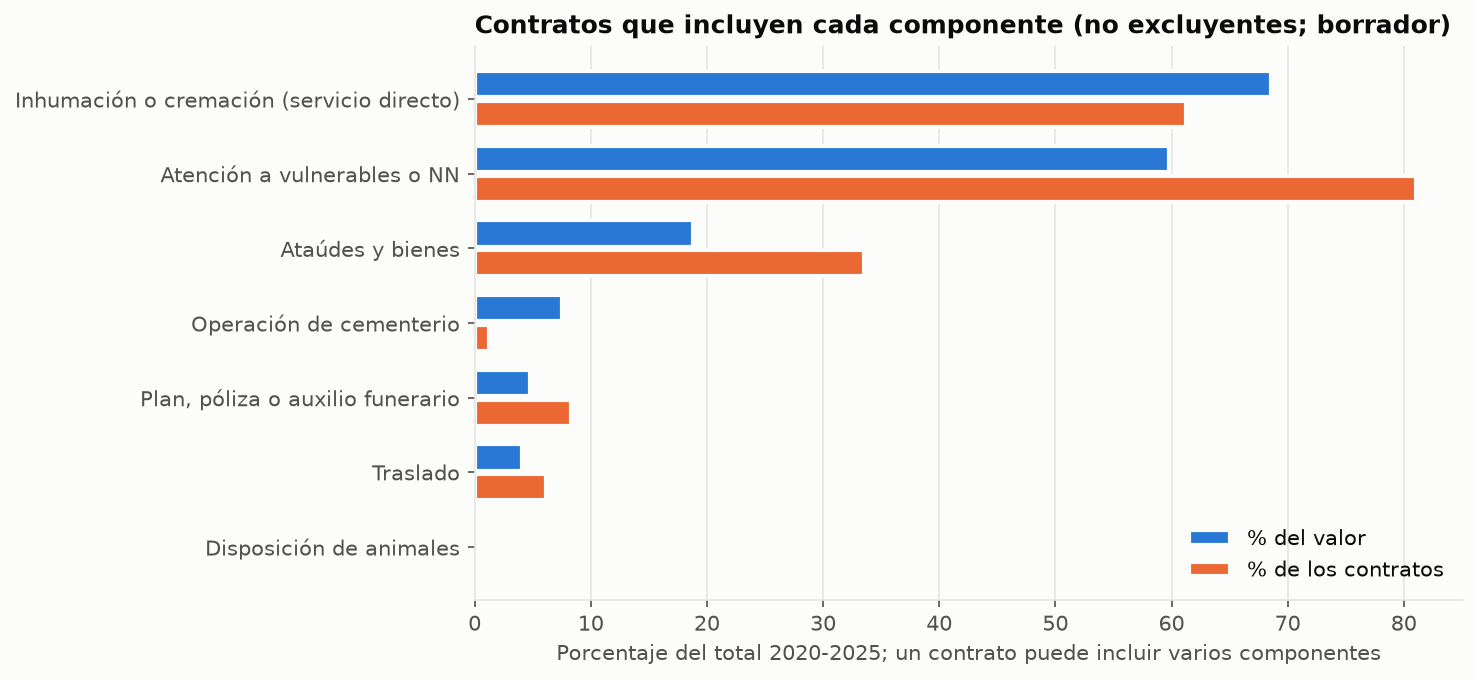
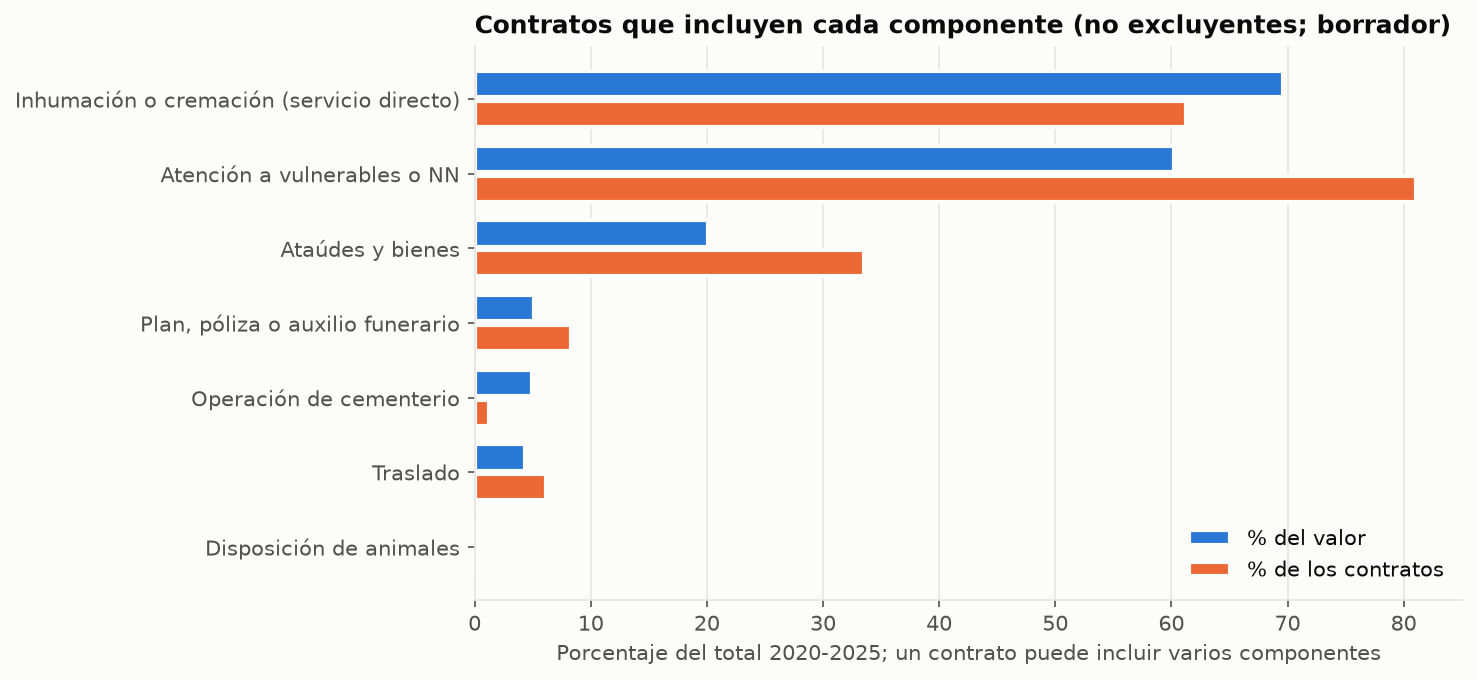
feat(modelos): etiquetas humanas de los dos contratos dudosos de 2025 y recálculo del mercado (D81)
El contrato de albergue y ayuda humanitaria de la Secretaría General de Bogotá es
mixto y la interventoría de la concesión de cementerios de la UAESP es
no_funerario (etiquetas de Edward con su origen). Mercado funerario con TF-IDF:
4.990 contratos y 246,2 miles de millones de pesos de 2025 (antes 262,9); 2025
queda en 38,7 (antes 55,4). HHI y CR4 de 2025: 638 y 33,0 % (antes 769 y 50,1 %);
el salto lo explica un único proveedor (23,9 % del valor del año). Se actualizan
las cifras de D67, D69, D77 y D78.

diff --git a/src/modelos/mercado_base.py b/src/modelos/mercado_base.py
@@ -78,10 +78,28 @@ def codigo_departamento(divipola):
     return {normalizar(n): c for n, c in divipola[["Nombre Departamento", "Código Departamento"]].drop_duplicates().itertuples(index=False)}
 
 
+def aplicar_etiquetas_humanas(clasif, procesado):
+    """Sustituye la clase del modelo por la etiqueta humana adicional (con su origen) y conserva la predicción original."""
+    archivo = procesado / "etiquetas_humanas_adicionales.csv"
+    clasif = clasif.assign(pred_tfidf_modelo=clasif["pred_tfidf"], pred_e5_modelo=clasif["pred_e5"],
+                           etiqueta_humana_adicional=None, origen_etiqueta_adicional=None)
+    if not archivo.exists():
+        return clasif
+    h = pd.read_csv(archivo, dtype=str)
+    indice = clasif.set_index(["fuente", "llave"]).index
+    for r in h.itertuples():
+        pos = np.flatnonzero((clasif["fuente"] == r.fuente) & (clasif["llave"] == r.llave))
+        assert len(pos) == 1, f"etiqueta humana adicional sin contrato único: {r.llave}"
+        i = clasif.index[pos[0]]
+        clasif.loc[i, ["pred_tfidf", "pred_e5", "etiqueta_humana_adicional", "origen_etiqueta_adicional"]] = [r.etiqueta, r.etiqueta, r.etiqueta, r.origen]
+    return clasif
+
+
 def construir_universo(config, columna_clase="pred_tfidf"):
     procesado = ruta(config, "processed")
     divipola = pd.read_csv(ruta(config, "raw") / "dane" / "dane_divipola.csv", dtype=str)
     clasif = pd.read_parquet(procesado / "clasificacion_universo.parquet")
+    clasif = aplicar_etiquetas_humanas(clasif, procesado)
     clasif["clase_final"] = clasif[columna_clase]
     atributos = universo_atributos(config)
     cruce = cruzar_ubicacion(atributos, divipola)

diff --git a/docs/decisiones.md b/docs/decisiones.md
@@ -527,6 +527,8 @@ Las decisiones no se borran: si cambian, se marca la anterior como reemplazada y
 
 - **Actualización con SECOP I 2023–2025 (D73, D74; 2026-10-26):** TF-IDF, `funerario`: **4.992 contratos y 262,9 miles de millones de pesos de 2025** (220,2 corrientes), frente a los 3.732 contratos y 230,1 miles de millones (189,6 corrientes) de la serie incompleta: +32,8 miles de millones (+14 %). Serie en pesos de 2025: 2020, 1.066 contratos y 48,6; 2021, 973 y 54,2; 2022, 805 y 36,5; 2023, 765 y 34,3; 2024, 691 y 34,0; 2025, 692 y 55,4. Por fuente (contratos; miles de millones): SECOP I 982, 816, 598, 525, 396 y 339 contratos y 27,0, 20,1, 15,3, 13,2, 10,0 y 9,6; SECOP II 84, 157, 207, 240, 295 y 353 contratos y 21,6, 34,1, 21,1, 21,0, 24,0 y 45,8. **La caída de 2023 no se mantiene:** de 2022 a 2023 el valor baja 6 % (36,5 a 34,3) y no 42 % (36,5 a 21,0) como en la serie sin SECOP I; 2024 queda igual (34,0) y 2025 sube a 55,4 (+63 %), sobre todo por SECOP II (45,8). SECOP I de 2023–2025 aporta 1.260 contratos funerarios (525, 396 y 339) y 32,8 miles de millones. Sensibilidades 2020–2025 (valor constante): TF-IDF con `mixto` 5.096 contratos y 413,8; e5 4.920 y 235,6; e5 con `mixto` 5.056 y 399,6.
 
+- **Actualización D81 (2026-10-26):** con las dos etiquetas humanas de D81 (el contrato de albergue y ayuda humanitaria de la Secretaría General de Bogotá como `mixto` y la interventoría de la concesión de cementerios de la UAESP como `no_funerario`), el mercado funerario con TF-IDF queda en **4.990 contratos y 246,2 miles de millones de pesos de 2025** (203,6 corrientes), frente a los 4.992 y 262,9 de la actualización anterior. Serie en pesos de 2025: 2020, 1.066 contratos y 48,6; 2021, 973 y 54,2; 2022, 805 y 36,5; 2023, 765 y 34,3; 2024, 691 y 34,0; **2025, 690 y 38,7** (antes 692 y 55,4). Sensibilidades 2020–2025: TF-IDF con `mixto` 5.095 contratos y 406,1; e5 4.920 y 235,6; e5 con `mixto` 5.057 y 408,6.
+
 ### D68. Patrones de compra: agrupaciones y reglas (borrador)
 - **Decisión:** como borrador sin conclusiones, los contratos `funerario` del escenario principal se describen por (a) tipo de entidad, con reglas sobre el nombre de la entidad (salud/hospital/ESE, alcaldía o municipio, gobernación o departamento, empresa de servicios públicos, educación, seguridad y justicia, otra), además del orden de cada fuente y el sector de SECOP II; (b) modalidad agrupada (contratación directa, régimen especial, mínima cuantía, selección abreviada o subasta, licitación o concurso), con la participación de la contratación directa en el valor por año y fuente; (c) mes de firma; y (d) subtipo de servicio con reglas sobre el objeto, en este orden de prioridad: disposición de animales, cremación, plan o póliza exequial, traslado de cadáveres, cofres y bienes, inhumación de NN o población vulnerable, operación de cementerio y otro. Se dejan 40 contratos con su subtipo en `docs/revision_f4/subtipos.xlsx` (5 por subtipo, semilla 2026, con lista desplegable) para que Edward los valide.
 - **Por qué (cifras del borrador):** tipo de entidad: alcaldías y municipios 85,3 % de los contratos y 54,4 % del valor. Modalidad: mínima cuantía 76,1 % de los contratos y 32,8 % del valor; contratación directa 13,3 % y 12,2 %; selección abreviada 5,9 % y 29,5 %; licitación o concurso 0,2 % y 16,2 %. Participación de la contratación directa en el valor: entre 3,8 % y 25,1 % según año y fuente, de 7,0 % en SECOP II 2025. Subtipo: inhumación de NN o vulnerables 60,0 % de los contratos y 43,6 % del valor; plan o póliza exequial 12,1 % y 5,6 %; cremación 4,1 % y 5,0 %; traslado 4,0 % y 1,9 %; cofres y bienes 3,5 % y 1,3 %; operación de cementerio 1,6 % y 9,5 %; disposición de animales 2 contratos; otro 14,8 % y 32,9 %. El orden de prioridad decide los casos que cumplen varias reglas (un contrato de cofres para población vulnerable queda en inhumación de vulnerables), y «vulnerable» incluye adultos mayores, víctimas y personas en vulnerabilidad.
@@ -552,6 +554,8 @@ Las decisiones no se borran: si cambian, se marca la anterior como reemplazada y
 - **Estado:** propuesta, lista para revisión de Edward (actualizada con la cobertura completa de SECOP I; ver la actualización al final de esta decisión). Limitación: en 2020–2022 un mismo proveedor puede figurar en las dos fuentes con identificadores distintos, lo que subestima la concentración de esos años.
 
 **Actualización con cobertura completa (2026-10-26, D73): lista para revisión de Edward.** HHI nacional por año con SECOP I y SECOP II: 290 (2020), 470, 294, 267 (2023), 379 (2024) y 769 (2025); CR4 de 28,4 %, 36,1 %, 25,3 %, 26,5 %, 31,3 % y 50,1 %; proveedores distintos 607, 534, 476, 471, 426 y 440. Con la serie incompleta el HHI de 2023 y 2024 parecía subir a 676 y 742: era en buena parte un efecto de cobertura, y con SECOP I completo se queda en 267 y 379; el aumento que persiste es el de 2025 (769, CR4 de 50,1 %), y coincide con el salto del valor de SECOP II ese año (45,8 miles de millones). Por departamento (32 con 5 o más proveedores, 2020–2025): percentiles 10, 25, 50, 75 y 90 de 489, 763, 1.251, 1.674 y 2.525; 4 superan 2.500. El 44,0 % de los contratos tiene un proveedor persona natural y los cinco proveedores de mayor valor reúnen el 21,9 % del valor. Sigue la limitación de que un mismo proveedor puede figurar en SECOP I y SECOP II con identificadores distintos, lo que subestima la concentración.
+
+**Actualización D81 (2026-10-26).** Con los dos contratos corregidos por Edward, el HHI y el CR4 de 2025 quedan en **638 y 33,0 %** (antes 769 y 50,1 %); el resto de la serie no cambia (290, 470, 294, 267, 379 en 2020–2024 y CR4 de 28,4 %, 36,1 %, 25,3 %, 26,5 % y 31,3 %). Por departamento (32 con 5 o más proveedores): percentiles 10, 25, 50, 75 y 90 de 489, 763, 1.302, 1.674 y 2.525; 4 superan 2.500. Los cinco proveedores de mayor valor reúnen el 22,3 % del valor. La concentración de 2025 que queda es real y de un solo proveedor: Coordinadora de Servicios de Parque Cementerio S.A.S., con 20 contratos y el 23,9 % del valor del año (el contrato de la Dirección de Bienestar de la Policía Nacional, 6,45 miles de millones, y los del Ejército), que aporta 573 de los 638 puntos del HHI. D69 sigue como propuesta, lista para revisión.
 
 ### D70. Cobertura de SECOP I después de 2022: conteo sin descarga
 - **Decisión:** no se descarga nada de SECOP I posterior a 2022 hasta que Edward lo apruebe. Se contó en `f789-7hwg`, con la misma consulta de D16 y los estados de D42 (Celebrado, Liquidado y Terminado sin Liquidar), la fecha de firma en 2023, 2024 y 2025. La advertencia de cobertura queda en el informe del mercado público y D69 sigue como propuesta.
@@ -614,12 +618,16 @@ Las decisiones no se borran: si cambian, se marca la anterior como reemplazada y
 - **Sustento:** `src/modelos/mercado_patrones.py` (`top_contratos`, `hhi_sin_mayores`); D21, D69, D73.
 - **Estado:** vigente como descomposición; D69, propuesta. Recomendación: etiquetar los contratos (1) y (2) para decidir su clase.
 
+**Actualización D81 (2026-10-26).** Las dos etiquetas humanas de D81 resuelven la duda de D77: el contrato (1) es `mixto` y el (2) es `no_funerario`, de modo que ya no cuentan como `funerario`. HHI de 2025: 638 (CR4 de 33,0 %), 172 sin el contrato de la Policía (CR4 de 19,7 %), 114 sin los dos mayores, 90 sin los tres mayores y 71 sin los diez mayores. La explicación de la subida de 2025 queda entonces en un solo proveedor (D81).
+
 ### D78. Componentes que se reportan y evaluación de la disposición de animales
 - **Decisión:** el informe reporta solo los componentes con 35 o más aciertos de 40 contra la revisión de Edward: operación de cementerio (40 de 40), plan exequial (39), traslado (36) y ataúdes y bienes (35). `incluye_inhumacion_cremacion` (27 de 40) e `incluye_atencion_vulnerables_NN` (23 de 40) pasan a «indicadores en revisión»: se reporta su acierto pero no los porcentajes de contratos y de valor. Resultado de los reportados (4.992 contratos `funerario`; porcentaje de contratos y de valor): operación de cementerio 1,2 % y 7,6 %; plan exequial 8,3 % y 4,8 %; traslado 6,1 % y 4,0 %; ataúdes y bienes 33,6 % y 18,8 %.
 - **Por qué:** los dos indicadores en revisión no se pueden evaluar con estos 40 casos, porque casi todo contrato funerario menciona un servicio directo y población vulnerable y la verdad de referencia tiene un solo subtipo por contrato. **Disposición de animales:** se evaluó con los 23 contratos del estrato B de la muestra de 400 (N = n = 23: es todo el estrato, de modo que no hay error de muestreo). Los 23 son `no_funerario` y `forense = 0`; 22 son gestión de residuos peligrosos u hospitalarios de centros de zoonosis (recolección, incineración y disposición final de residuos, o arrendamiento de bodegas para control de vectores) y solo uno, M078 (recolección de residuos que incluye «animales muertos cuyo peso supere los 50 kg»), trata animales muertos. El indicador `incluye_disposicion_animales` marca M078 y ninguno de los otros 22; con mi lectura de los 23 textos (Edward no etiquetó el componente, por lo que es provisional) eso es 1 de 1 positivo y 22 de 22 negativos correctos. En todo el universo la regla marca 6 contratos (1,06 miles de millones corrientes), todos `no_funerario`, y ningún contrato `funerario` la activa. Conclusión: la disposición pública de animales muertos no aparece como componente de los contratos funerarios y, entre los candidatos del filtro, es casi inexistente (1 de 23).
 - **Descartado:** reportar porcentajes de indicadores con menos de 35 aciertos; contar como positivos de animales los 22 contratos de residuos de zoonosis solo porque el filtro los marcó.
 - **Sustento:** `src/modelos/mercado_patrones.py`, `src/modelos/mercado_informe.py`; D17, D68.
 - **Estado:** vigente. Limitación: la lectura de los 23 contratos de animales es mía y no una etiqueta de Edward.
+
+**Actualización D81 (2026-10-26).** Con la interventoría de la concesión de cementerios fuera de la clase `funerario`, el componente de operación de cementerio baja a 1,2 % de los contratos y 4,9 % del valor (antes 7,6 %); plan exequial 8,3 % y 5,1 %; traslado 6,1 % y 4,3 %; ataúdes y bienes 33,6 % y 20,1 %.
 
 ### D79. Justificación estadística de las muestras de etiquetado
 - **Decisión:** la muestra de 400 (D22) y la validación externa de 60 (D62) son muestras **estratificadas con asignación no proporcional**, siguiendo la lógica de la asignación óptima de Neyman (Cochran, 1977): se sobremuestrean los estratos pequeños con alta variabilidad de la clase (los estratos con señal, donde conviven funerarios y no funerarios) y se submuestrea el estrato de mayor tamaño y casi sin positivos (D, sin señal). El **tamaño fue fijado por el presupuesto de etiquetado** (400 casos con doble revisión y 60 de validación), no por un cálculo previo de precisión. La estimación usa **pesos N/n** y el **estimador de Horvitz–Thompson** (la proporción de funerarios es Σ(w·y)/Σw) y los intervalos de las métricas se obtienen con **bootstrap estratificado** (remuestreo dentro de cada estrato, D55). Se reporta el efecto de diseño y el tamaño efectivo de Kish y el margen de error al 95 % por estrato (`data/processed/diseno_muestral_resumen.csv` y `diseno_muestral_estratos.csv`; código en `src/evaluacion/diseno_muestral.py`).
@@ -635,3 +643,10 @@ Las decisiones no se borran: si cambian, se marca la anterior como reemplazada y
 - **Descartado:** reabrir D59, D62 o D63; sustituir el resultado original por el revisado como si el primero no hubiera existido (se conservan las dos versiones).
 - **Sustento:** `src/modelos/evaluar_secop1_nuevos.py`, `src/modelos/reevaluar_validacion.py`, `data/processed/tabla_validacion_60_revisada.csv`; D62, D63, D74, D79.
 - **Estado:** vigente. Limitación: 30 casos de SECOP I 2023–2025 son pocos y el grupo negativo está dominado por contratos sin señal; el resultado sin errores acota el error de cada grupo en 18,1 % y no lo mide con precisión.
+
+### D81. Dos etiquetas humanas adicionales (contratos dudosos de 2025) y recálculo del mercado
+- **Decisión:** Edward etiquetó los dos contratos de 2025 que D77 señaló como dudosos: `CO1.PCCNTR.7493931` (Secretaría General de la Alcaldía Mayor de Bogotá, ayuda humanitaria con alojamiento en albergue y asistencia funeraria, 8,86 miles de millones) es **`mixto`**, y `CO1.PCCNTR.8750005` (UAESP, interventoría de la concesión de cementerios, 7,84 miles de millones) es **`no_funerario`** (Edward cita la regla 6 de D21). Se guardan como etiquetas humanas con su origen (`revision_edward_2026-10-26_hhi2025`) en `data/processed/etiquetas_humanas_adicionales.csv` (columnas fuente, llave, etiqueta, forense, origen y detalle; no se versiona), y `src/modelos/mercado_base.py` (`aplicar_etiquetas_humanas`) las aplica al construir el universo: sustituye `pred_tfidf` y `pred_e5` por la etiqueta humana y conserva la predicción original en `pred_tfidf_modelo` y `pred_e5_modelo`, con las columnas `etiqueta_humana_adicional` y `origen_etiqueta_adicional`. La clase final (`clase_final`) y todos los escenarios de sensibilidad usan la clase corregida; las 400 etiquetas de la muestra no sustituyen la predicción (D61). La corrección no se aplica a ningún otro contrato.
+- **Por qué (serie, HHI y CR4 recalculados con `python -m src.modelos.mercado`):** mercado funerario con TF-IDF, **4.990 contratos y 246,2 miles de millones de pesos de 2025** (203,6 corrientes), frente a los 4.992 y 262,9 anteriores (−16,7 miles de millones, los dos contratos). Serie en pesos de 2025 (miles de millones): 48,6 (2020), 54,2, 36,5, 34,3, 34,0 y **38,7 (2025, 690 contratos)**, en lugar de 55,4. En 2025, SECOP II aporta 351 contratos y 29,1 miles de millones, y SECOP I 339 y 9,6. **HHI y CR4 de 2025: 638 y 33,0 %** (antes 769 y 50,1 %); con e5 son 672 y 33,9 %, y con los contratos que ambos modelos llaman funerarios, 726 y 35,4 %; por tanto, con la clase corregida el salto de 2025 se explica por un único proveedor, Coordinadora de Servicios de Parque Cementerio S.A.S. (20 contratos, 23,9 % del valor del año, 573 de los 638 puntos del HHI), y no por una concentración general del mercado. Sin el mayor contrato de 2025 (Policía Nacional, 6,45 miles de millones, 16,5 % del año), el HHI es 172. Sensibilidades 2020–2025 (valor constante): TF-IDF con `mixto` 5.095 contratos y 406,1; e5 4.920 y 235,6; e5 con `mixto` 5.057 y 408,6.
+- **Descartado:** reentrenar los modelos con estas dos etiquetas (son contratos del universo, no de la muestra); aplicar la corrección solo al escenario de TF-IDF (e5 ya los clasificaba como `no_funerario` y ahora el primero pasa a `mixto` en ambos); borrar la predicción original del modelo.
+- **Sustento:** `src/modelos/mercado_base.py`; D61, D67, D69, D77, D78.
+- **Estado:** vigente. Limitación: las clases corregidas son dos de unos 5.000 contratos; otros contratos grandes pueden estar mal clasificados y no se han revisado (los diez mayores de 2025 se revisaron por modelo, no uno por uno).

diff --git a/docs/resultados/f4_mercado_publico.md b/docs/resultados/f4_mercado_publico.md
@@ -10,9 +10,9 @@ Tabla de origen: `tasa_cruce_ubicacion.csv`.
 
 | | contratos | funerarios (TF-IDF) |
 |---|---|---|
-| universo | 39,870 | 4,992 |
-| con municipio DIVIPOLA | 38,136 (95.7%) | 4,841 |
-| con departamento | 39,774 (99.8%) | 4,985 |
+| universo | 39,870 | 4,990 |
+| con municipio DIVIPOLA | 38,136 (95.7%) | 4,839 |
+| con departamento | 39,774 (99.8%) | 4,983 |
 
 Sin municipio quedan los contratos con la entidad registrada en «No Definido» y unos pocos nombres sin equivalente. Los cruces aproximados fueron revisados por Edward (20 de 20 correctos, D66). **Decisión D66** (vigente).
 
@@ -27,7 +27,7 @@ Tabla de origen: `serie_anual.csv`; gráfico `docs/resultados/graficos/1_serie_a
 | 2022 | 805 | 28,8 | 36,5 |
 | 2023 | 765 | 30,5 | 34,3 |
 | 2024 | 691 | 32,4 | 34,0 |
-| 2025 | 692 | 55,3 | 55,4 |
+| 2025 | 690 | 38,6 | 38,7 |
 
 Por fuente (`serie_anual_fuente.csv`):
 
@@ -44,16 +44,16 @@ Por fuente (`serie_anual_fuente.csv`):
 | 2024 | secop1 | 396 | 10,0 |
 | 2024 | secop2 | 295 | 24,0 |
 | 2025 | secop1 | 339 | 9,6 |
-| 2025 | secop2 | 353 | 45,8 |
+| 2025 | secop2 | 351 | 29,1 |
 
 Sensibilidad (suma 2020–2025; `serie_anual.csv`):
 
 | escenario | contratos | valor constante 2025 (mm) |
 |---|---|---|
-| e5_con_mixto | 5.056 | 399,6 |
+| e5_con_mixto | 5.057 | 408,6 |
 | e5_sin_mixto | 4.920 | 235,6 |
-| tfidf_con_mixto | 5.096 | 413,8 |
-| tfidf_sin_mixto | 4.992 | 262,9 |
+| tfidf_con_mixto | 5.095 | 406,1 |
+| tfidf_sin_mixto | 4.990 | 246,2 |
 
 **Decisión D67** (propuesta): pesos constantes de 2025 con el IPC mensual del mes de firma; valor inicial sin adiciones.
 
@@ -67,9 +67,9 @@ Tablas: `departamento_resumen.csv`, `departamento_anual.csv`, `municipio_resumen
 | VAUPÉS | 17 | 242,0 | 7,9 |
 | GUAVIARE | 36 | 202,5 | 7,1 |
 | VICHADA | 39 | 196,0 | 4,9 |
-| BOGOTÁ, D.C. | 153 | 186,9 | 0,3 |
 | AMAZONAS | 23 | 178,4 | 4,7 |
 | ARCHIPIÉLAGO DE SAN ANDRÉS, PROVIDENCIA Y SANTA CATALINA | 1 | 158,9 | 1,6 |
+| BOGOTÁ, D.C. | 151 | 151,8 | 0,3 |
 | ARAUCA | 47 | 118,9 | 2,8 |
 | SUCRE | 181 | 118,1 | 3,0 |
 | NARIÑO | 416 | 117,2 | 4,1 |
@@ -78,7 +78,7 @@ Diez municipios con más contratos funerarios:
 
 | municipio | departamento | contratos | valor constante 2025 (mm) |
 |---|---|---|---|
-| BOGOTÁ, D.C. | BOGOTÁ, D.C. | 126 | 45,7 |
+| BOGOTÁ, D.C. | BOGOTÁ, D.C. | 124 | 29,0 |
 | ARMENIA | QUINDÍO | 74 | 2,4 |
 | SANTIAGO DE CALI | VALLE DEL CAUCA | 67 | 5,7 |
 | BUCARAMANGA | SANTANDER | 42 | 5,5 |
@@ -99,24 +99,24 @@ Todo lo de esta sección es borrador sin conclusiones; usa los contratos `funera
 
 | tipo_entidad | contratos | pct_contratos | pct_valor |
 |---|---|---|---|
-| alcaldia_municipio | 4.429 | 88,7 | 59,9 |
+| alcaldia_municipio | 4.428 | 88,7 | 60,3 |
 | educacion_universidad | 12 | 0,2 | 0,1 |
-| gobernacion_departamento | 100 | 2,0 | 2,9 |
-| otra_entidad | 229 | 4,6 | 14,0 |
-| salud_hospital_ese | 89 | 1,8 | 3,3 |
-| seguridad_justicia | 12 | 0,2 | 10,9 |
-| servicios_publicos_empresa | 121 | 2,4 | 8,9 |
+| gobernacion_departamento | 100 | 2,0 | 3,1 |
+| otra_entidad | 229 | 4,6 | 15,0 |
+| salud_hospital_ese | 89 | 1,8 | 3,5 |
+| seguridad_justicia | 12 | 0,2 | 11,6 |
+| servicios_publicos_empresa | 120 | 2,4 | 6,4 |
 
 **Modalidad** (`borrador_modalidad.csv`; gráfico `3_modalidad.png`):
 
 | modalidad_grupo | contratos | pct_contratos | pct_valor |
 |---|---|---|---|
-| contratacion_directa | 521 | 10,4 | 11,1 |
-| licitacion_concurso | 9 | 0,2 | 14,2 |
-| minima_cuantia | 4.014 | 80,4 | 38,4 |
-| otra | 6 | 0,1 | 0,1 |
-| regimen_especial | 167 | 3,3 | 8,0 |
-| seleccion_abreviada | 275 | 5,5 | 28,2 |
+| contratacion_directa | 521 | 10,4 | 11,9 |
+| licitacion_concurso | 8 | 0,2 | 12,0 |
+| minima_cuantia | 4.014 | 80,4 | 41,0 |
+| otra | 6 | 0,1 | 0,2 |
+| regimen_especial | 166 | 3,3 | 4,9 |
+| seleccion_abreviada | 275 | 5,5 | 30,1 |
 
 **Participación de la contratación directa en el valor**, por año y fuente (`borrador_modalidad_directa_anual.csv`):
 
@@ -133,33 +133,33 @@ Todo lo de esta sección es borrador sin conclusiones; usa los contratos `funera
 | 2024 | secop1 | 396 | 3,5 | 3,5 |
 | 2024 | secop2 | 295 | 6,7 | 9,7 |
 | 2025 | secop1 | 339 | 3,0 | 3,2 |
-| 2025 | secop2 | 353 | 7,0 | 28,6 |
+| 2025 | secop2 | 351 | 11,1 | 14,1 |
 
 **Mes de firma** (`borrador_mes_firma.csv`):
 
 | mes | contratos | pct_contratos | pct_valor |
 |---|---|---|---|
-| 1 | 362 | 7,3 | 5,0 |
-| 2 | 727 | 14,6 | 11,8 |
-| 3 | 797 | 16,0 | 12,4 |
-| 4 | 627 | 12,6 | 11,6 |
-| 5 | 512 | 10,3 | 8,3 |
-| 6 | 398 | 8,0 | 6,5 |
-| 7 | 332 | 6,7 | 5,5 |
-| 8 | 267 | 5,3 | 7,9 |
-| 9 | 261 | 5,2 | 5,7 |
-| 10 | 247 | 4,9 | 4,9 |
-| 11 | 221 | 4,4 | 9,4 |
-| 12 | 241 | 4,8 | 11,0 |
+| 1 | 362 | 7,3 | 5,4 |
+| 2 | 726 | 14,5 | 8,9 |
+| 3 | 797 | 16,0 | 13,3 |
+| 4 | 627 | 12,6 | 12,4 |
+| 5 | 512 | 10,3 | 8,9 |
+| 6 | 398 | 8,0 | 6,9 |
+| 7 | 332 | 6,7 | 5,9 |
+| 8 | 267 | 5,4 | 8,4 |
+| 9 | 261 | 5,2 | 6,1 |
+| 10 | 247 | 4,9 | 5,2 |
+| 11 | 221 | 4,4 | 10,0 |
+| 12 | 240 | 4,8 | 8,6 |
 
 **Componentes del servicio** (indicadores no excluyentes sobre el objeto; `componentes.csv`, `componentes_anual.csv`; gráfico `4_componentes.png`). Solo se reportan los componentes con 35 o más aciertos de 40 contra la revisión de Edward. Un contrato puede incluir varios componentes, así que los porcentajes no suman 100. Plan exequial solo con plan, póliza, auxilio funerario o afiliación; «servicios exequiales» por sí solo es servicio directo:
 
 | componente | contratos | % de contratos que lo incluye | % del valor que lo incluye |
 |---|---|---|---|
-| incluye_traslado | 305 | 6,1 | 4,0 |
-| incluye_ataudes_bienes | 1.675 | 33,6 | 18,8 |
-| incluye_plan_exequial | 413 | 8,3 | 4,8 |
-| incluye_operacion_cementerio | 61 | 1,2 | 7,6 |
+| incluye_traslado | 305 | 6,1 | 4,3 |
+| incluye_ataudes_bienes | 1.675 | 33,6 | 20,1 |
+| incluye_plan_exequial | 413 | 8,3 | 5,1 |
+| incluye_operacion_cementerio | 60 | 1,2 | 4,9 |
 | incluye_disposicion_animales | 0 | 0,0 | 0,0 |
 
 **Acierto de los componentes reportados** contra los 40 contratos (`acierto_indicadores.csv`). **La medición es optimista: las reglas se ajustaron con esos mismos casos.** Además, Edward marcó un solo subtipo por contrato, así que la sensibilidad es confiable pero la precisión es un mínimo.
@@ -194,9 +194,9 @@ Participación, HHI y CR4 por valor constante (`proveedores_hhi_cr4_anual.csv`, 
 | 2022 | 476 | 294 | 25.3 |
 | 2023 | 471 | 267 | 26.5 |
 | 2024 | 426 | 379 | 31.3 |
-| 2025 | 440 | 769 | 50.1 |
+| 2025 | 438 | 638 | 33.0 |
 
-HHI por departamento (2020–2025, departamentos con 5 o más proveedores, n = 32): percentiles 10, 25, 50, 75 y 90 = 489, 763, 1,251, 1,674, 2,525; 4 de 32 superan 2.500. Los cinco proveedores de mayor valor suman el 21.9 % del valor total (`proveedores_top_participacion.csv`).
+HHI por departamento (2020–2025, departamentos con 5 o más proveedores, n = 32): percentiles 10, 25, 50, 75 y 90 = 489, 763, 1,302, 1,674, 2,525; 4 de 32 superan 2.500. Los cinco proveedores de mayor valor suman el 22.3 % del valor total (`proveedores_top_participacion.csv`).
 
 **Decisión D69** (propuesta, borrador): identificador de proveedor y medidas de concentración.
 
@@ -206,27 +206,27 @@ Los 10 mayores contratos funerarios de 2025 (`hhi_2025_top10_contratos.csv`; el 
 
 | entidad | valor (mm corrientes) | % del valor de 2025 | proveedor | modalidad | prob. funerario TF-IDF | prob. funerario e5 |
 |---|---|---|---|---|---|---|
-| SECRETARÍA GENERAL DE LA ALCALDÍA MAYOR DE BOGOTÁ | 8.86 | 16.2 | ASOCIACIÓN DE HOGARES SI A LA VIDA | Contratación régimen especial (con ofertas) | 0.90 | 0.06 |
-| UNIDAD ADMINISTRATIVA ESPECIAL DE SERVICIOS PÚBLICOS. | 7.84 | 14.0 | (persona natural: no se muestra) | Concurso de méritos abierto | 1.00 | 0.21 |
-| DIRECCION DE BIENESTAR DE LA POLICIA NACIONAL | 6.45 | 11.5 | COORDINADORA DE SERVICIOS DE PARQUE CEMENTERIO S.A.S. | Licitación pública | 0.85 | 0.98 |
-| CENTRAL ADMINISTRATIVA Y CONTABLE CENAC PERSONAL | 1.95 | 3.6 | COORDINADORA DE SERVICIOS DE PARQUE CEMENTERIO S.A.S. | Selección Abreviada de Menor Cuantía | 1.00 | 1.00 |
-| CENTRAL ADMINISTRATIVA Y CONTABLE CENAC PERSONAL | 1.79 | 3.2 | LA ASCENSION S.A. | Selección Abreviada de Menor Cuantía | 0.99 | 1.00 |
-| ALCALDÍA DEL DISTRITO TURÍSTICO Y CULTURAL DE CARTAGENA DE INDIAS | 0.78 | 1.4 | NADAD Y CIA SAS | Selección Abreviada de Menor Cuantía | 0.90 | 1.00 |
-| ALCALDIA MUNICIPAL DE VALLEDUPAR | 0.55 | 1.0 | ULTRAVIDA PREVISION EXEQUIAL S.A.S. | Selección abreviada subasta inversa | 0.93 | 0.97 |
-| UNIDAD ADMINISTRATIVA ESPECIAL DE SERVICIOS PÚBLICOS. | 0.52 | 0.9 | INSTITUTO DISTRITAL PARA LA PROTECCIÓN DE LA NIÑEZ Y LA JUVENTUD - IDIPRON* | Contratación directa | 0.54 | 0.20 |
-| ALCALDIA DISTRITAL DE BUENAVENTURA-VALLE | 0.52 | 0.9 | (persona natural: no se muestra) | Selección Abreviada de Menor Cuantía | 1.00 | 1.00 |
-| DISTRITO ESPECIAL DE CIENCIA TECNOLOGIA E INNOVACION DE MEDELLIN | 0.49 | 0.9 | FUNERARIA SAN VICENTE S.A. | Selección abreviada subasta inversa | 1.00 | 1.00 |
+| DIRECCION DE BIENESTAR DE LA POLICIA NACIONAL | 6.45 | 16.5 | COORDINADORA DE SERVICIOS DE PARQUE CEMENTERIO S.A.S. | Licitación pública | 0.85 | 0.98 |
+| CENTRAL ADMINISTRATIVA Y CONTABLE CENAC PERSONAL | 1.95 | 5.1 | COORDINADORA DE SERVICIOS DE PARQUE CEMENTERIO S.A.S. | Selección Abreviada de Menor Cuantía | 1.00 | 1.00 |
+| CENTRAL ADMINISTRATIVA Y CONTABLE CENAC PERSONAL | 1.79 | 4.6 | LA ASCENSION S.A. | Selección Abreviada de Menor Cuantía | 0.99 | 1.00 |
+| ALCALDÍA DEL DISTRITO TURÍSTICO Y CULTURAL DE CARTAGENA DE INDIAS | 0.78 | 2.0 | NADAD Y CIA SAS | Selección Abreviada de Menor Cuantía | 0.90 | 1.00 |
+| ALCALDIA MUNICIPAL DE VALLEDUPAR | 0.55 | 1.4 | ULTRAVIDA PREVISION EXEQUIAL S.A.S. | Selección abreviada subasta inversa | 0.93 | 0.97 |
+| UNIDAD ADMINISTRATIVA ESPECIAL DE SERVICIOS PÚBLICOS. | 0.52 | 1.3 | INSTITUTO DISTRITAL PARA LA PROTECCIÓN DE LA NIÑEZ Y LA JUVENTUD - IDIPRON* | Contratación directa | 0.54 | 0.20 |
+| ALCALDIA DISTRITAL DE BUENAVENTURA-VALLE | 0.52 | 1.3 | (persona natural: no se muestra) | Selección Abreviada de Menor Cuantía | 1.00 | 1.00 |
+| DISTRITO ESPECIAL DE CIENCIA TECNOLOGIA E INNOVACION DE MEDELLIN | 0.49 | 1.3 | FUNERARIA SAN VICENTE S.A. | Selección abreviada subasta inversa | 1.00 | 1.00 |
+| MUNICIPIO DE ARMENIA QUINDIO | 0.37 | 1.0 | FUNDACION PARQUE CEMENTERIO JARDINES DE ARMENIA | Contratación régimen especial (con ofertas) | 0.99 | 1.00 |
+| MUNICIPIO DE BUCARAMANGA | 0.38 | 1.0 | (persona natural: no se muestra) | Selección abreviada subasta inversa | 0.99 | 0.98 |
 
 HHI de 2025 quitando los mayores contratos (`hhi_2025_sin_mayores.csv`):
 
 | sin los N mayores contratos | contratos | valor constante (mm) | proveedores | HHI | CR4 |
 |---|---|---|---|---|---|
-| 0 | 692 | 55.4 | 440 | 769 | 50.1 |
-| 1 | 691 | 46.4 | 439 | 721 | 42.3 |
-| 2 | 690 | 38.7 | 438 | 638 | 33.0 |
-| 3 | 689 | 32.3 | 438 | 172 | 19.7 |
-| 5 | 687 | 28.5 | 437 | 90 | 11.7 |
-| 10 | 682 | 25.7 | 436 | 74 | 10.4 |
+| 0 | 690 | 38.7 | 438 | 638 | 33.0 |
+| 1 | 689 | 32.3 | 438 | 172 | 19.7 |
+| 2 | 688 | 30.3 | 438 | 114 | 14.5 |
+| 3 | 687 | 28.5 | 437 | 90 | 11.7 |
+| 5 | 685 | 27.2 | 437 | 85 | 11.7 |
+| 10 | 680 | 24.9 | 436 | 71 | 9.9 |
 
 HHI según el modelo que define `funerario` (`proveedores_hhi_por_clasificacion.csv`):
 
@@ -234,7 +234,7 @@ HHI según el modelo que define `funerario` (`proveedores_hhi_por_clasificacion.
 |---|---|---|---|---|
 | TF-IDF | 2023 | 471 | 267 | 26.5 |
 | TF-IDF | 2024 | 426 | 379 | 31.3 |
-| TF-IDF | 2025 | 440 | 769 | 50.1 |
+| TF-IDF | 2025 | 438 | 638 | 33.0 |
 | e5 | 2023 | 478 | 269 | 27.6 |
 | e5 | 2024 | 421 | 393 | 33.5 |
 | e5 | 2025 | 427 | 672 | 33.9 |
